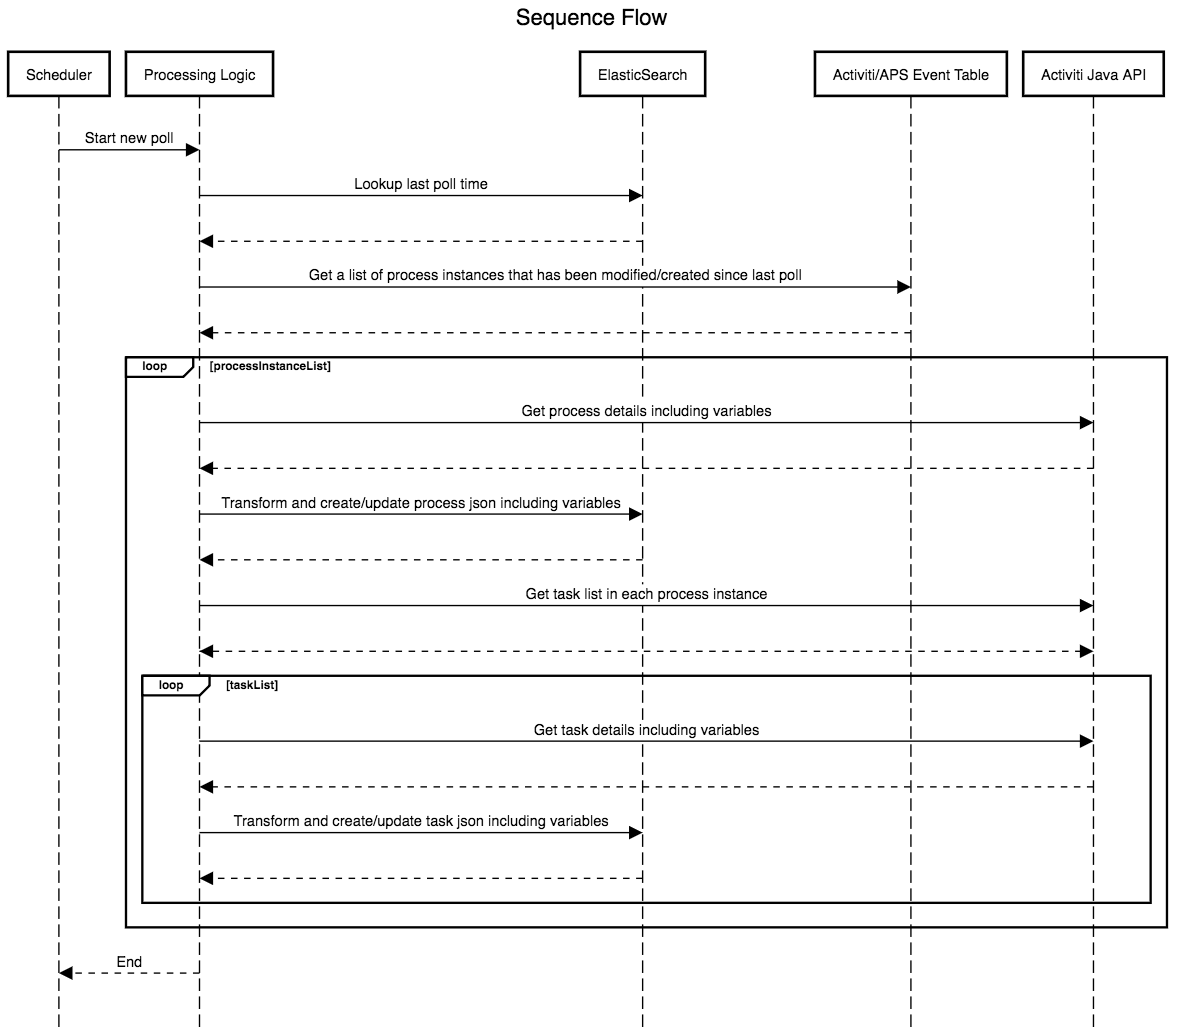
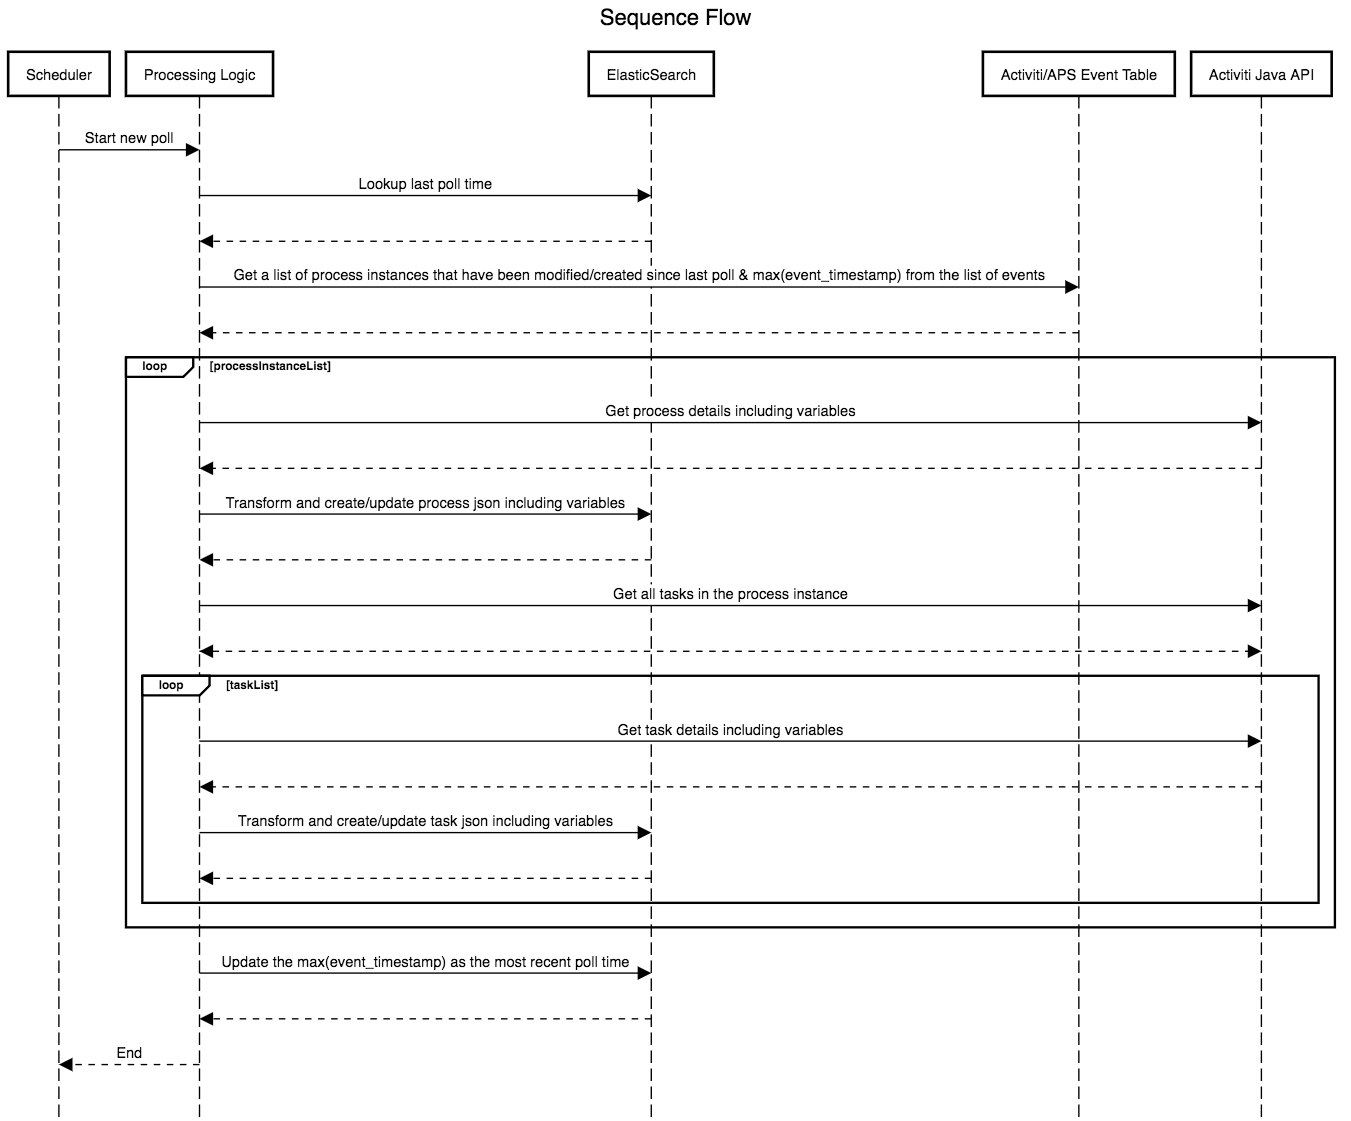
Updated

diff --git a/README.md b/README.md
@@ -1,6 +1,6 @@
 # activiti-analytics-spring-boot
 
-Please find below the solution diagram. The source of the diagram created using [sequencediagram.org](https://sequencediagram.org) can be found [here](https://goo.gl/LeNbqD)
+Please find below the solution diagram. The source of the diagram created using [sequencediagram.org](https://sequencediagram.org) can be found [here](https://goo.gl/6eKwvb)
 ![](images/seq-flow.png)
 
 Activiti must be running with both history and events turned on to have analytics data
